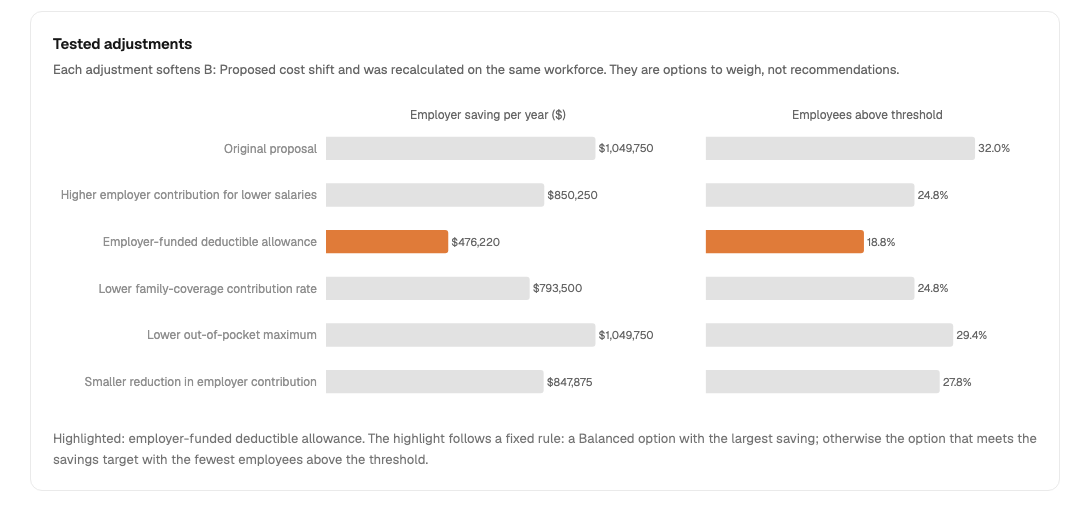
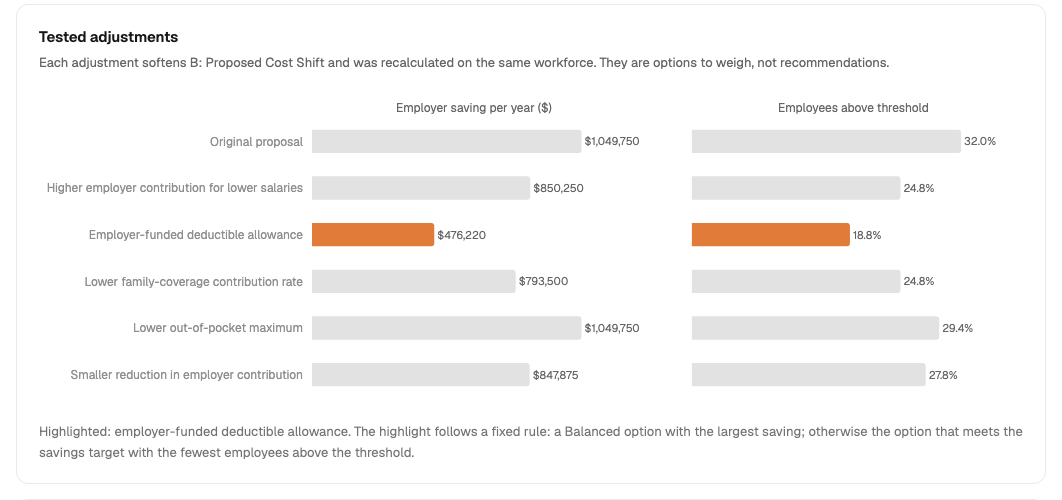
v0.2.0

diff --git a/README.md b/README.md
@@ -46,7 +46,7 @@ These are results from synthetic data under simplified rules. They illustrate th
 - Stress-tests conclusions against higher healthcare costs, more high users, salary growth, and coverage-mix changes
 - Exports aggregate results only
 
-![Sensitivity heatmap: share of employees above the threshold as costs and high use rise](reports/figures/sensitivity.png)
+![Sensitivity heatmap of the share of employees above the threshold, beside the employer contribution trade-off](reports/figures/sensitivity.png)
 
 Not included: real insurer quotes, actuarial pricing, tax treatment, provider networks, co-payments, predictions of individual health, or automatic plan selection. There is no machine learning and no language model. The value is in formulas that can be read, checked, and tested.
 
